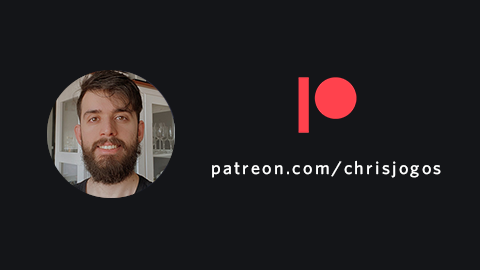
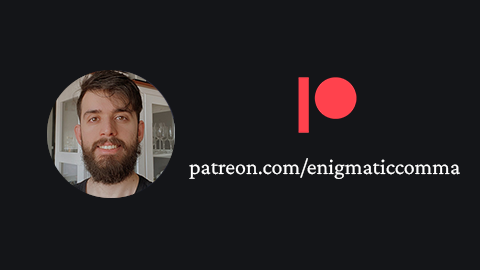
update namings

Changed region(s): [[0.375, 0.5926, 0.9688, 0.6815]]

diff --git a/index.html b/index.html
@@ -10,7 +10,7 @@
 	<!-- Global site tag (gtag.js) - Google Analytics -->
 	<script async src="https://www.googletagmanager.com/gtag/js?id=UA-78841852-4"></script>
 
-	<title>CHRISdbhr Website</title>
+	<title>chrisjogos.com</title>
 	<meta charset="utf-8"/>
 	<meta content="width=device-width, initial-scale=1, user-scalable=no" name="viewport"/>
 	<meta name="p:domain_verify" content="6e7c79917b70eab124e63ef37eb38a19"/>
@@ -27,7 +27,7 @@
 <header id="header">
 	<div class="inner">
 		<a class="image avatar" href="#"><img style="border-radius: 50%;" alt="" src="https://www.gravatar.com/avatar/bc67d0d8223c77034223d024d9f96b46?s=192"/></a>
-		<h1><strong>CHRISdbhr</strong></h1>
+		<h1><strong>chrisdbhr</strong></h1>
 		<h5>Christopher Hernandez</h5>
 		<p>I'm a cross-platform game and app developer, working with Unity every day since 2017</p>
 	</div>
@@ -500,7 +500,7 @@
 			<article class="col-6 col-12-xsmall work-item">
 				<h3>Email</h3>
 
-				<form action="https://formspree.io/chrisdbhr@gmail.com" method="POST">
+				<form action="https://formspree.io/contato@chrisjogos.com" method="POST">
 					<div class="row gtr-uniform gtr-50">
 						<div class="col-6 col-12-xsmall">
 							<input type="text" name="name" id="name" value="" placeholder="Seu nome" />
@@ -560,7 +560,7 @@
 				<!-- Project Title -->
 				<h3>Patreon</h3>
 				<!-- Description -->
-				<a href="https://patreon.com/chrisjogos" class="button primary">Visit Patreon</a>
+				<a href="https://patreon.com/EnigmaticComma" class="button primary">Visit Patreon</a>
 				<p>
 					You can donate monthly value for me on my Patreon!
 				</p>
